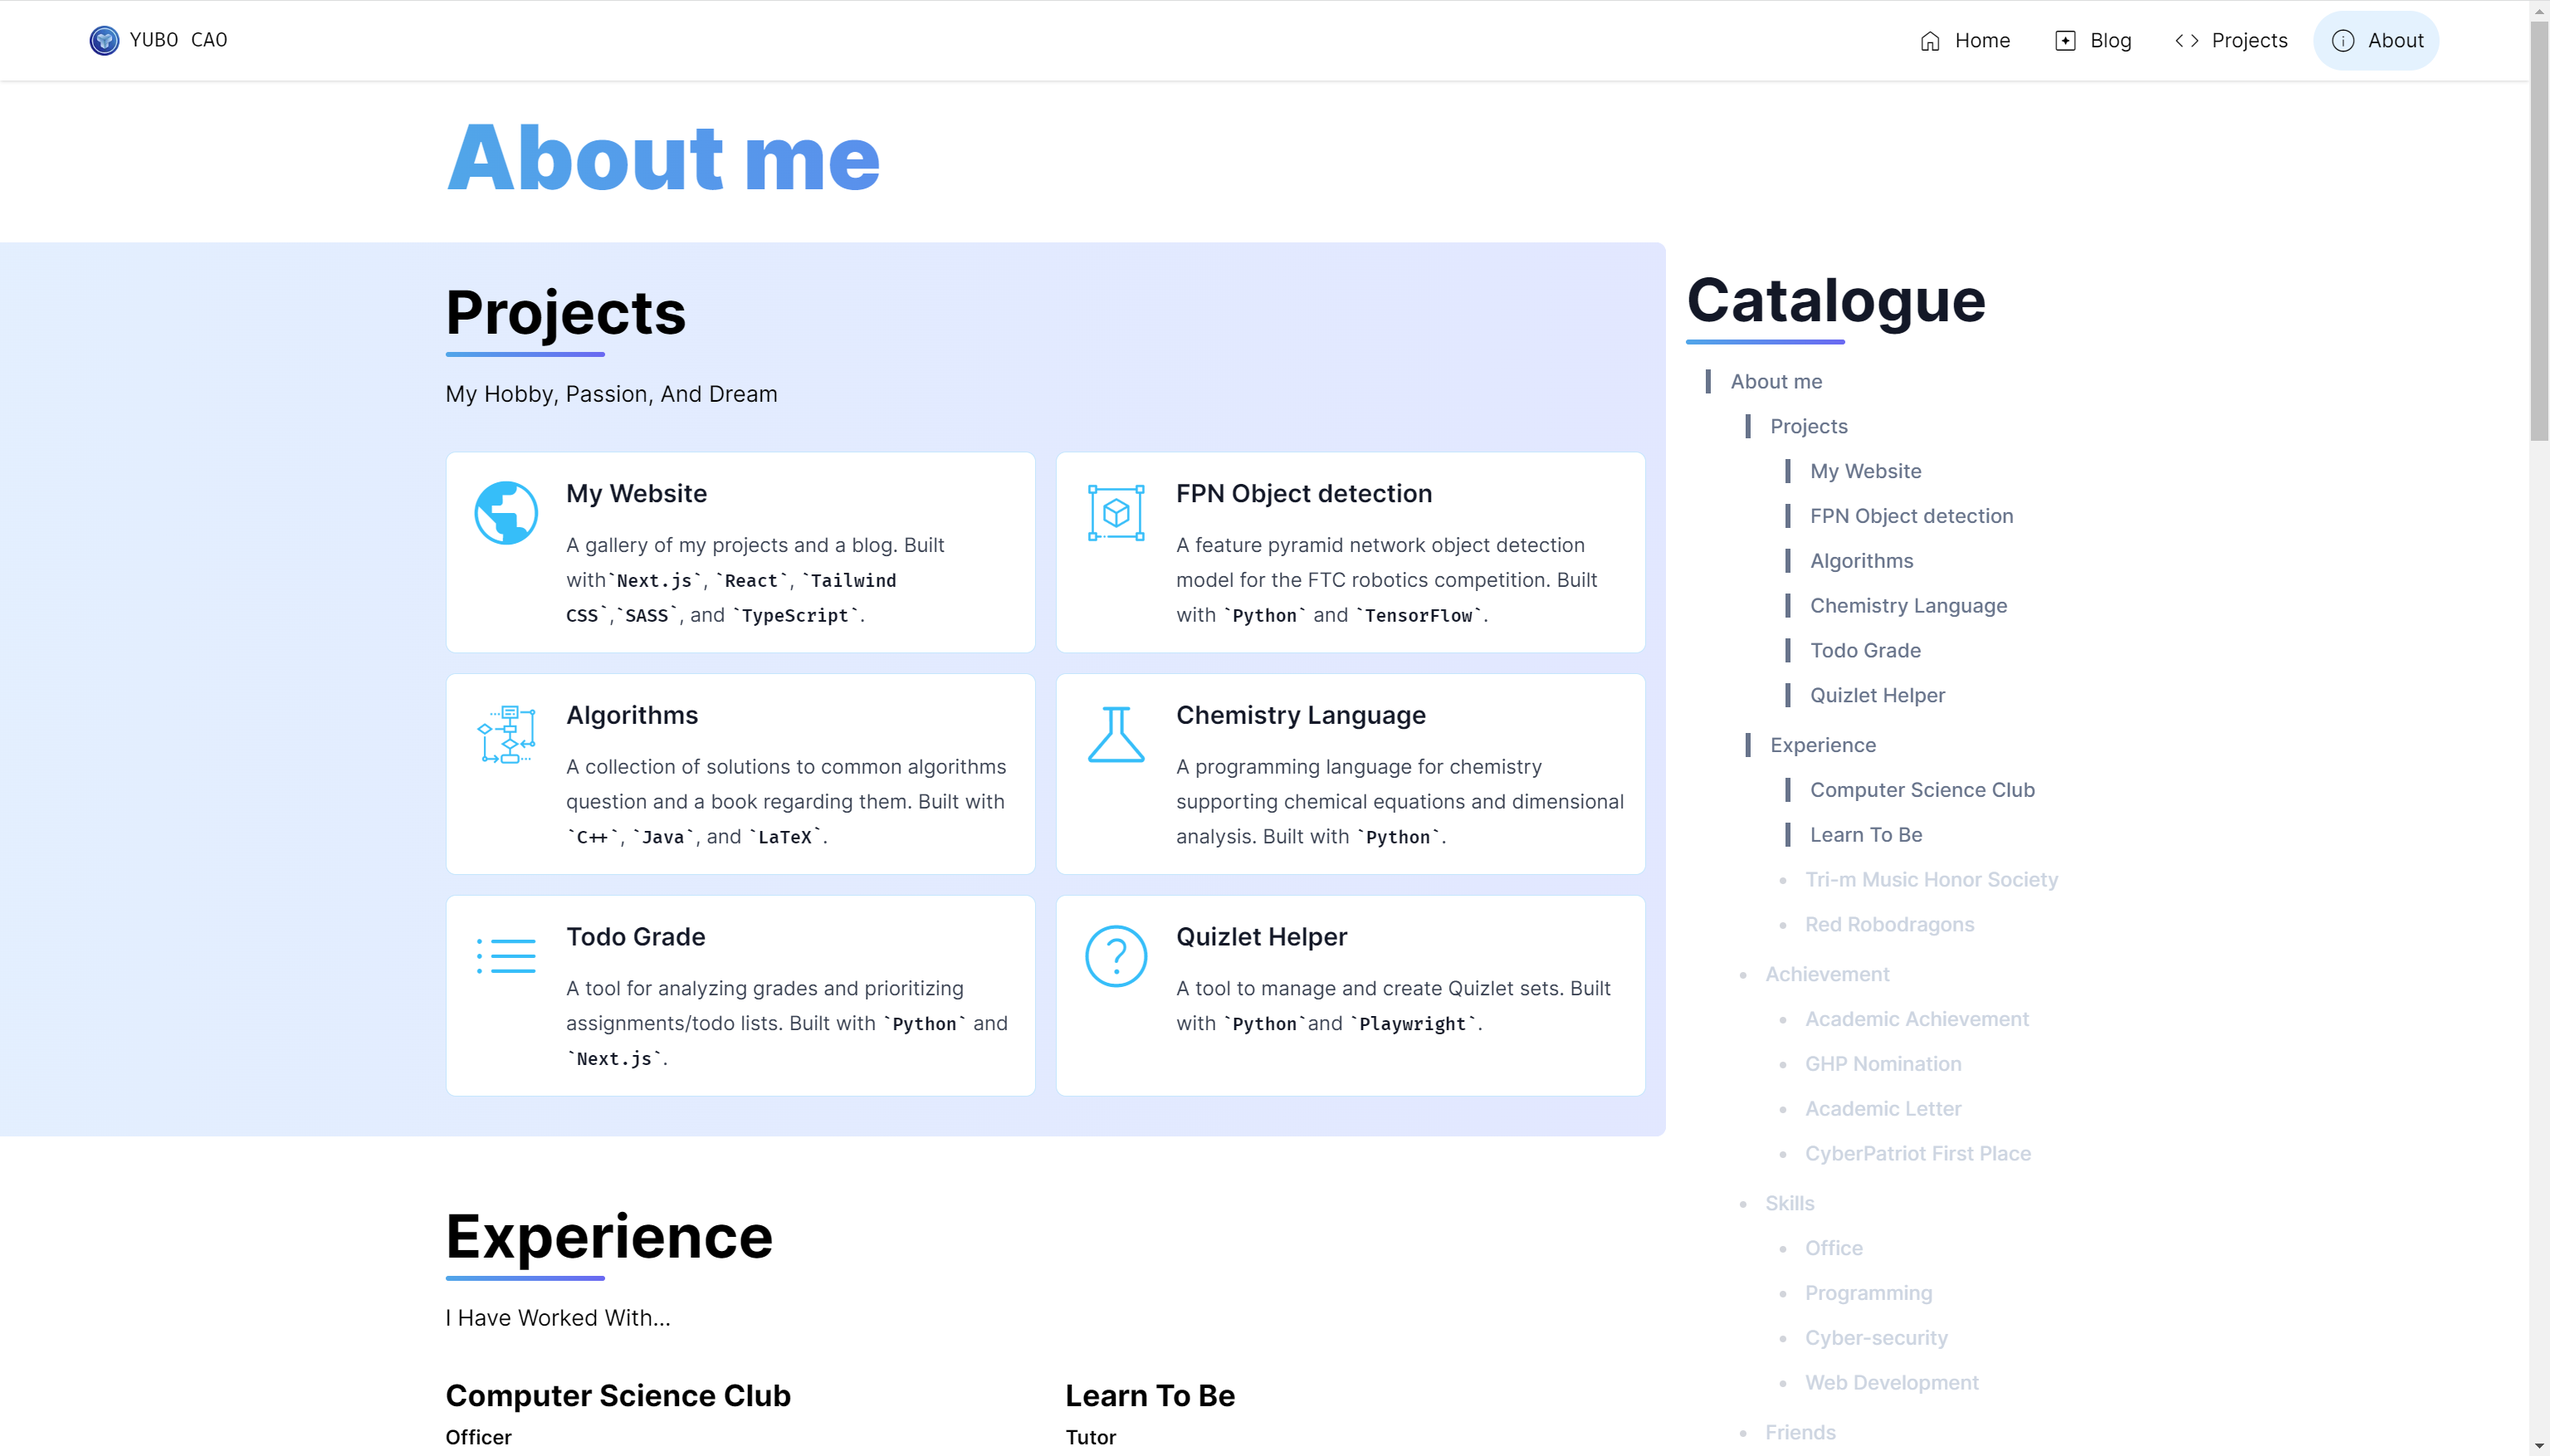
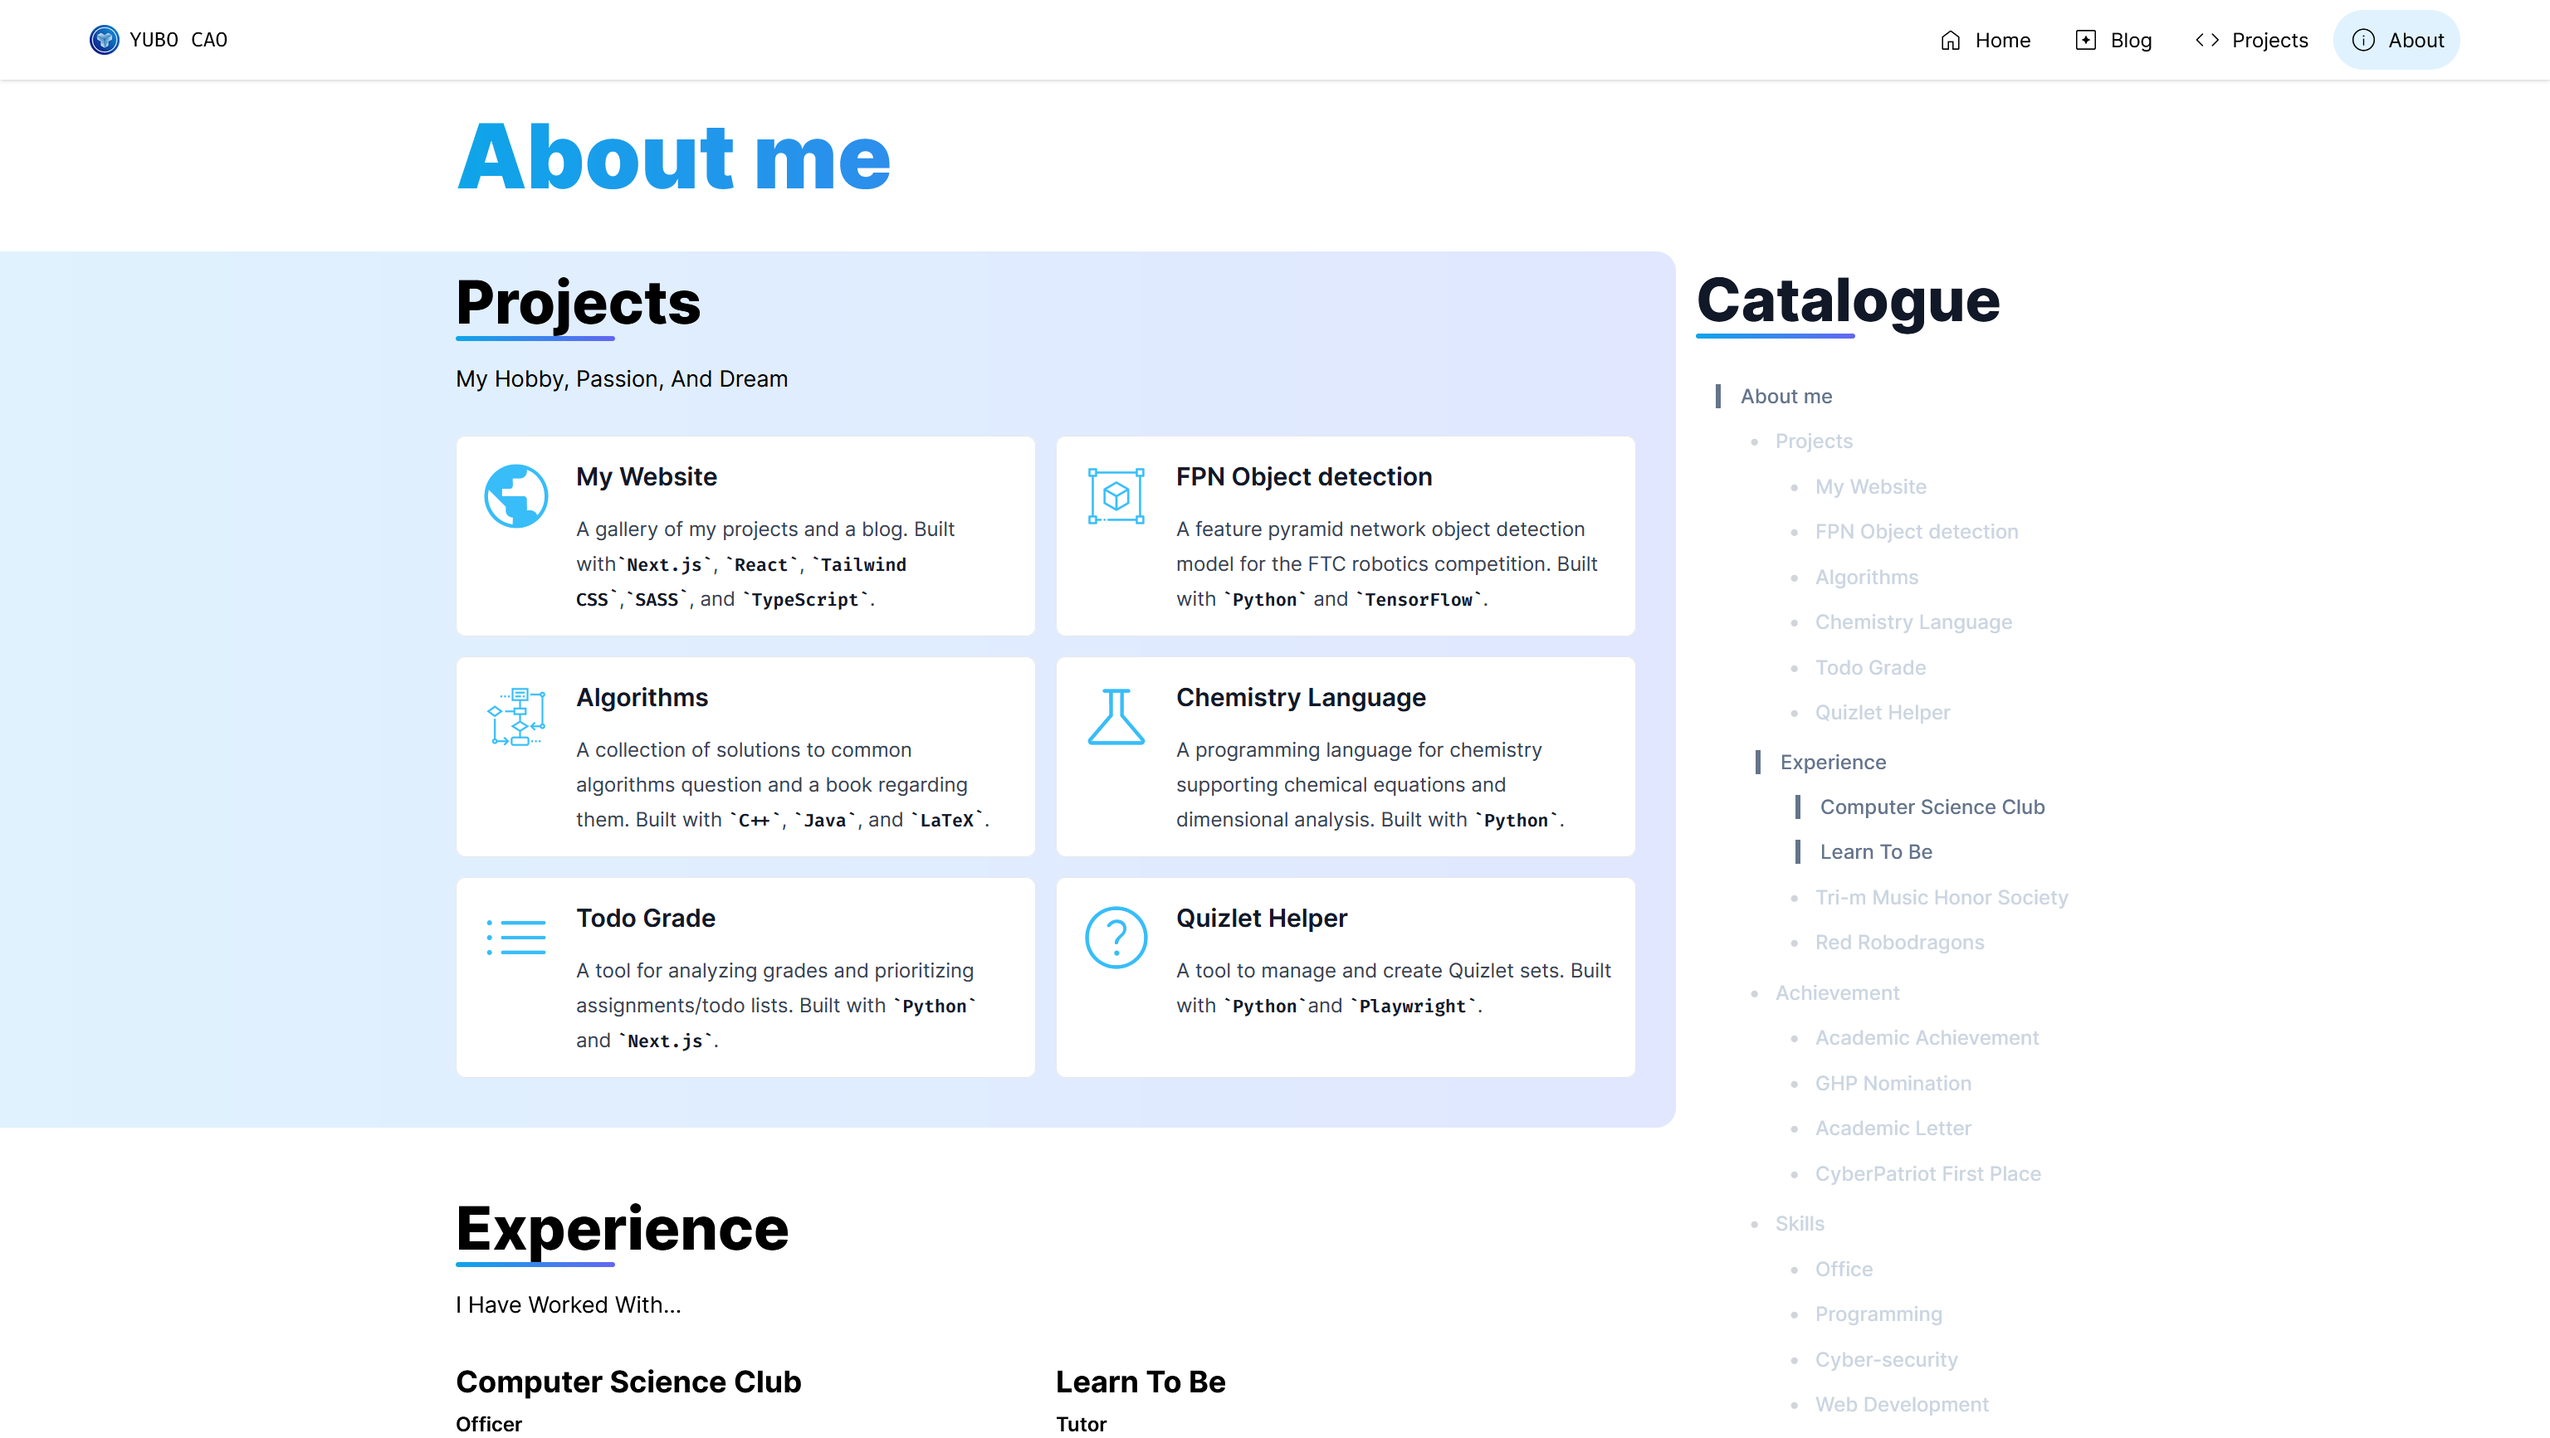
feat: finish up year summary

diff --git a/components/Banner.tsx b/components/Banner.tsx
@@ -1,4 +1,5 @@
 import React from "react";
+import { currentBreakpoint } from "../lib/breakpoints";
 import { cls } from "../lib/utils";
 
 type BannerProps = {
@@ -8,42 +9,82 @@ type BannerProps = {
     style?: React.CSSProperties;
     bannerStyle?: React.CSSProperties;
     stick?: "left" | "right" | "both" | "none";
+    avoidTOC?: boolean;
+};
+
+type BannerState = {
+    needAvoid: boolean;
 };
 
 // rewrite as class
-export default class Banner extends React.Component<BannerProps> {
+export default class Banner extends React.Component<BannerProps, BannerState> {
     ref: React.RefObject<HTMLDivElement>;
     stick: "left" | "right" | "both" | "none";
+    avoidTOC: boolean;
 
     constructor(props: BannerProps) {
         super(props);
         this.ref = React.createRef();
         this.stick = props.stick || "both";
-        console.log(this.props.style);
+        this.setState({ needAvoid: false });
+        this.avoidTOC = Object.hasOwn(props, "avoidTOC")
+            ? props.avoidTOC!!
+            : true;
+        this.widthAdjuster = this.widthAdjuster.bind(this);
     }
 
     componentDidMount() {
+        this.widthAdjuster();
+        window.addEventListener("resize", this.widthAdjuster);
+        window.addEventListener("scroll", this.widthAdjuster);
+    }
+
+    componentWillUnmount() {
+        window.removeEventListener("resize", this.widthAdjuster);
+        window.removeEventListener("scroll", this.widthAdjuster);
+    }
+
+    widthAdjuster() {
         const { current } = this.ref;
         if (!current) return;
         const parent = current.parentElement;
         if (!parent) return;
+        const rect = parent.getBoundingClientRect();
 
-        const widthAdjuster = () => {
-            if (
-                (this.stick === "left" || this.stick === "both") &&
-                !Object.hasOwn(this.props.bannerStyle || {}, "left")
-            )
-                current.style.left = `-${parent.offsetLeft}px`;
-            if (
-                (this.stick === "right" || this.stick === "both") &&
-                !Object.hasOwn(this.props.bannerStyle || {}, "right")
-            )
-                current.style.right = `-${
-                    window.innerWidth - parent.offsetLeft - parent.offsetWidth
-                }px`;
-        };
-        widthAdjuster();
-        window.addEventListener("resize", widthAdjuster);
+        if (
+            (this.stick === "left" || this.stick === "both") &&
+            !Object.hasOwn(this.props.bannerStyle || {}, "left")
+        )
+            current.style.left = `-${parent.offsetLeft}px`;
+        if (
+            (this.stick === "right" || this.stick === "both") &&
+            !Object.hasOwn(this.props.bannerStyle || {}, "right")
+        )
+            current.style.right = `-${
+                window.innerWidth - parent.offsetLeft - parent.offsetWidth
+            }px`;
+        if (
+            !Object.hasOwn(this.props.bannerStyle || {}, "top") &&
+            !Object.hasOwn(this.props.bannerStyle || {}, "bottom")
+        ) {
+            current.style.top = `${rect.top}px`;
+            current.style.bottom = `${window.innerHeight - rect.bottom}px`;
+        }
+
+        if (this.avoidTOC && currentBreakpoint(window.innerWidth) === "2xl") {
+            current.style.position = "absolute";
+            current.style.right = "0";
+            current.style.top = "0";
+            current.style.bottom = "0";
+            current.style.borderTopRightRadius = "1rem";
+            current.style.borderBottomRightRadius = "1rem";
+            current.parentElement!!.style.paddingRight = "2rem";
+        } else {
+            current.style.position = "fixed";
+            current.parentElement!!.style.paddingRight = "0";
+            current.style.borderTopRightRadius = "0";
+            current.style.borderBottomRightRadius = "0";
+        }
     }
 
     render() {
@@ -55,13 +96,18 @@ export default class Banner extends React.Component<BannerProps> {
         } = this.props;
 
         return (
-            <div className={cls("relative", className)} style={style}>
+            <div
+                className={cls(
+                    "relative",
+                    /\bp[xy]-\d+\b/.test(className) ? "" : "py-2",
+                    className
+                )}
+                style={style}
+            >
                 {children}
                 <div
                     className={cls(
-                        "absolute",
-                        "top-0",
-                        "bottom-0",
+                        "fixed",
                         bannerClassName ||
                             "bg-gradient-to-r from-primary-100 to-secondary-100",
                         "-z-10"

diff --git a/pages/blog/index.tsx b/pages/blog/index.tsx
@@ -1,5 +1,6 @@
 import Image from "next/image";
 import { useRouter } from "next/router";
+import Banner from "../../components/Banner";
 import Card from "../../components/Card";
 import { Chip } from "../../components/Chip";
 import HeaderLayout from "../../components/HeaderLayout";
@@ -100,26 +101,23 @@ function BlogCard(props: { blog: BlogPost }) {
 export default function Index({ blogs }: { blogs: BlogPost[] }) {
     return (
         <HeaderLayout active={"blog"}>
-            <Section
-                title={"Recent"}
-                flow={true}
-                alternate={"this"}
-                avoidTOC={false}
-            >
-                {blogs
-                    .filter(
-                        (blog) =>
-                            (Date.now() - new Date(blog.date).getTime()) /
-                                1000 /
-                                60 /
-                                60 /
-                                24 <
-                            7
-                    )
-                    .map((blog) => (
-                        <BlogCard key={blog.id.join("-")} blog={blog} />
-                    ))}
-            </Section>
+            <Banner avoidTOC={false} className="py-8">
+                <Section title={"Recent"} flow={true} avoidTOC={false}>
+                    {blogs
+                        .filter(
+                            (blog) =>
+                                (Date.now() - new Date(blog.date).getTime()) /
+                                    1000 /
+                                    60 /
+                                    60 /
+                                    24 <
+                                7
+                        )
+                        .map((blog) => (
+                            <BlogCard key={blog.id.join("-")} blog={blog} />
+                        ))}
+                </Section>
+            </Banner>
             <Section title={"All"} flow={true} alternate={"none"}>
                 {blogs.map((blog) => (
                     <BlogCard key={blog.id.join("-")} blog={blog} />

diff --git a/components/Section.tsx b/components/Section.tsx
@@ -54,7 +54,6 @@ export default function Section({
     const ref = React.useRef<HTMLDivElement>(null),
         hasTitle = title || subtitle,
         [alternating, setAlternating] = React.useState(alternate === "this"),
-        [width, setWidth] = React.useState(0),
         spacingClass = ["my-6", "py-4", "sm:py-8"];
 
     useEffect(() => {
@@ -74,10 +73,6 @@ export default function Section({
                     (alternate === "odd" && isOddChild(section))
             );
         }
-        const handleResize = () => setWidth(window.innerWidth);
-        window.addEventListener("resize", handleResize);
-        handleResize();
-        return () => window.removeEventListener("resize", handleResize);
     }, [alternating, alternate]);
 
     const section = (
@@ -112,16 +107,8 @@ export default function Section({
 
     return alternating ? (
         <Banner
-            className="py-4"
-            bannerStyle={
-                avoidTOC && ["2xl"].includes(currentBreakpoint(width))
-                    ? {
-                          right: "-2rem",
-                          borderTopRightRadius: "1rem",
-                          borderBottomRightRadius: "1rem"
-                      }
-                    : {}
-            }
+            className="py-2 max-2xl:py-6"
+            avoidTOC={avoidTOC}
         >
             {section}
         </Banner>

diff --git a/components/Title.tsx b/components/Title.tsx
@@ -61,7 +61,7 @@ export default function Title(props: {
         h6: "text-base font-medium"
     };
     return (
-        <div className={level < 3 ? "mb-8" : "mb-4"}>
+        <div className={level < 3 ? "mb-4" : "mb-2"}>
             {React.createElement(
                 "h" + level,
                 {
@@ -75,7 +75,7 @@ export default function Title(props: {
             {subtitle !== "" &&
                 React.createElement(
                     "div",
-                    { className: `text-lg ${subtitleClassName}` },
+                    { className: `text-lg ${subtitleClassName} -mt-3` },
                     subtitle,
                     []
                 )}

diff --git a/pages/blog/[...id].tsx b/pages/blog/[...id].tsx
@@ -46,6 +46,9 @@ export const components = {
     h5: (props: any) => <Title level={5} {...props} />,
     h6: (props: any) => <Title level={6} {...props} />,
     img: (props: any) => <img {...props} className={cls("rounded-lg")} />,
+    blockquote: (props: any) => (
+        <blockquote className="border-primary-500" {...props} />
+    ),
     Banner,
     Icon
 };
@@ -72,7 +75,7 @@ export default function Blog({
                 "md:mx-auto",
                 "xl:ml-0"
             )}
-            maxWidth={1024}
+            maxWidth={1058}
             className={"mx-auto"}
         >
             <Image

diff --git a/components/NavigationLayout.tsx b/components/NavigationLayout.tsx
@@ -21,7 +21,7 @@ export default function NavigatioLayout({
             <Header active={active} />
             <div
                 className={
-                    "xl:grid xl:grid-cols-nav xl:gap-12 mt-4 mx-auto max-xl:overflow-x-hidden " +
+                    "xl:grid xl:grid-cols-nav xl:gap-8 mt-4 mx-auto max-xl:overflow-x-hidden " +
                     className
                 }
                 style={{ maxWidth: `min(100%, ${maxWidth}px)` }}

diff --git a/components/GithubFriend.tsx b/components/GithubFriend.tsx
@@ -48,7 +48,7 @@ export default function GithubFriend({
                     alt={username}
                     className={cls(
                         "w-24 h-24 rounded-full",
-                        "md:w-36 md:h-auto md:rounded-none"
+                        "md:w-36 md:h-full md:rounded-none md:rounded-l-lg"
                     )}
                     width={80}
                     height={80}

diff --git a/pages/about.tsx b/pages/about.tsx
@@ -11,7 +11,7 @@ import Title from "../components/Title";
 
 export default function Home() {
     return (
-        <NavigationLayout active="About" navigationClassName="mt-32">
+        <NavigationLayout active="About" navigationClassName="mt-24">
             <Head>
                 <title>Yubo Cao - About</title>
                 <meta

diff --git a/tailwind.config.js b/tailwind.config.js
@@ -43,7 +43,8 @@ const colors = {
 module.exports = {
     content: [
         "./pages/**/*.{js,ts,jsx,tsx}",
-        "./components/**/*.{js,ts,jsx,tsx}"
+        "./components/**/*.{js,ts,jsx,tsx}",
+        "./content/**/*.mdx"
     ],
     mode: "jit",
     theme: {
